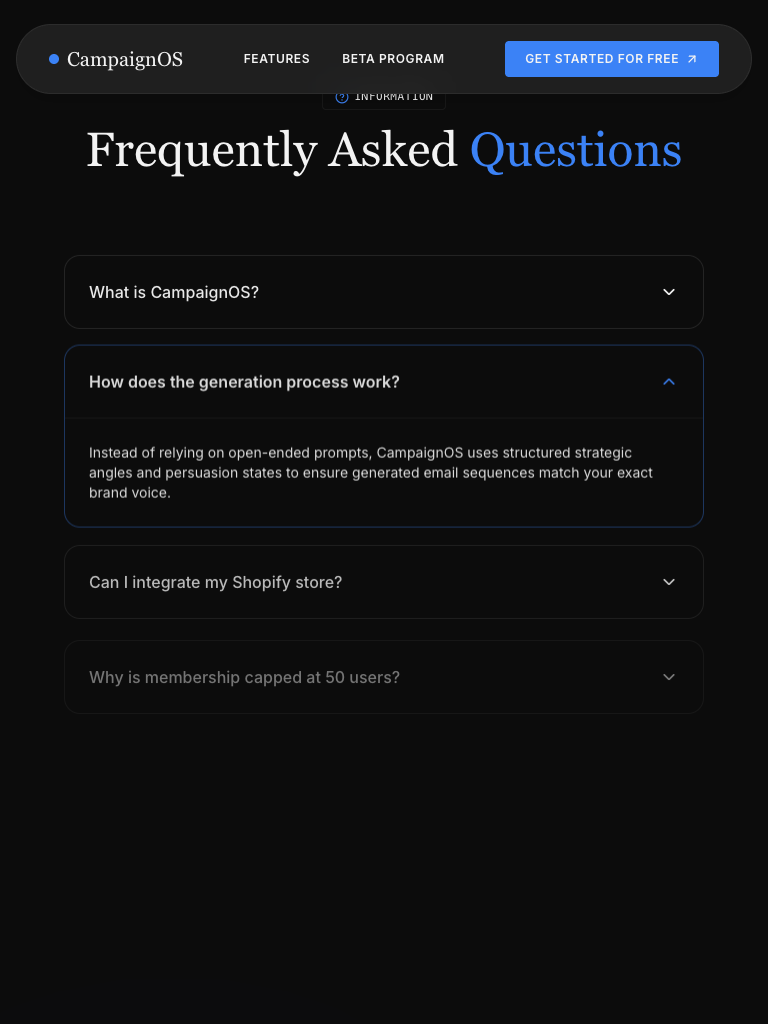
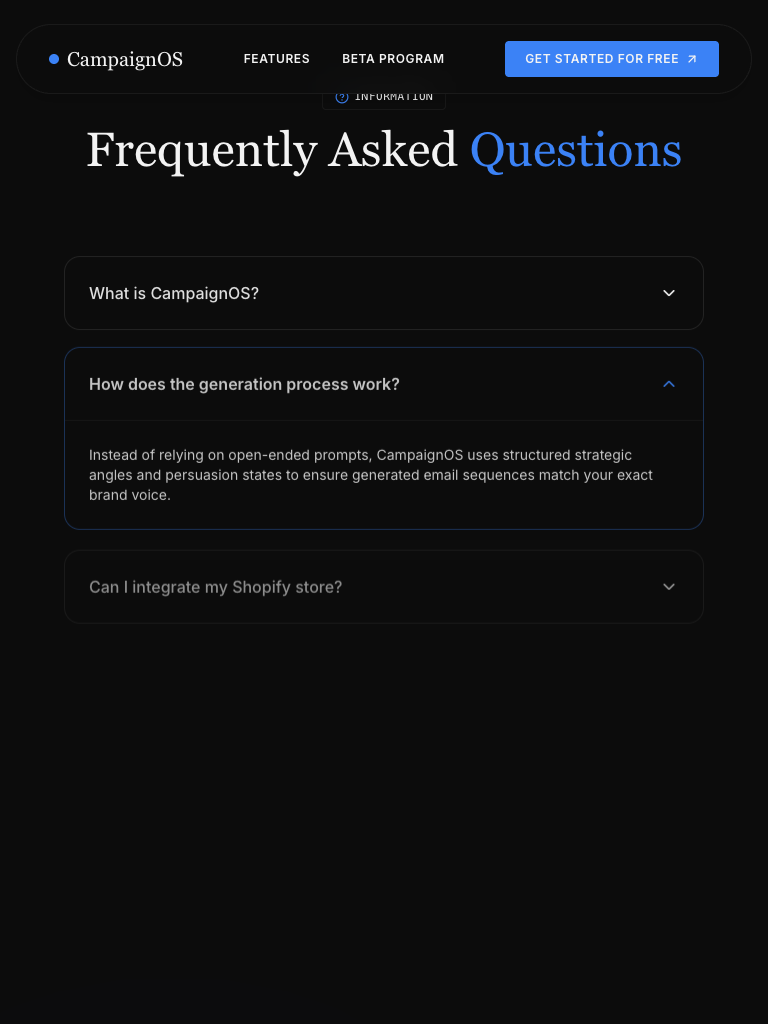
Align card and section backgrounds to sleek all-black theme and fix scroll reveal

diff --git a/src/components/Navbar.tsx b/src/components/Navbar.tsx
@@ -12,7 +12,7 @@ export default function Navbar() {
 
   return (
     <div className="fixed top-6 left-1/2 -translate-x-1/2 z-50 w-[calc(100%-2rem)] max-w-[1000px]">
-      <nav className="w-full bg-[#242424]/80 backdrop-blur-md border border-white/[0.06] rounded-full py-4 px-8 flex items-center justify-between shadow-lg">
+      <nav className="w-full bg-[#0c0c0c]/80 backdrop-blur-md border border-white/[0.06] rounded-full py-4 px-8 flex items-center justify-between shadow-lg">
         {/* Left - Logo */}
         <div className="flex-shrink-0 flex items-center">
           <a href="#" className="font-serif text-xl tracking-normal text-text-primary font-medium flex items-center gap-2">
@@ -50,7 +50,7 @@ export default function Navbar() {
           <button
             id="mobile-menu-btn"
             onClick={() => setIsOpen(!isOpen)}
-            className="inline-flex items-center justify-center p-2 rounded-full text-text-secondary hover:text-text-primary hover:bg-[#242424]/50 focus:outline-none transition-colors duration-200 touch-hitbox btn-active-scale"
+            className="inline-flex items-center justify-center p-2 rounded-full text-text-secondary hover:text-text-primary hover:bg-[#0c0c0c]/50 focus:outline-none transition-colors duration-200 touch-hitbox btn-active-scale"
             aria-expanded={isOpen}
             aria-label="Toggle menu"
           >
@@ -61,7 +61,7 @@ export default function Navbar() {
 
       {/* Mobile Menu Dropdown */}
       <div
-        className={`md:hidden overflow-hidden transition-all duration-200 ease-[var(--ease-out-quart)] origin-top mt-2 border border-white/[0.06] bg-[#242424]/95 backdrop-blur-md rounded-2xl shadow-lg ${
+        className={`md:hidden overflow-hidden transition-all duration-200 ease-[var(--ease-out-quart)] origin-top mt-2 border border-white/[0.06] bg-[#0c0c0c]/95 backdrop-blur-md rounded-2xl shadow-lg ${
           isOpen 
             ? 'max-h-64 opacity-100 scale-100 translate-y-0 py-4 pointer-events-auto' 
             : 'max-h-0 opacity-0 scale-[0.98] -translate-y-2 pointer-events-none py-0'

diff --git a/src/App.tsx b/src/App.tsx
@@ -20,13 +20,21 @@ function App() {
         });
       },
       { 
-        threshold: 0.05,
-        rootMargin: '0px 0px -50px 0px' // Triggers slightly before it enters the viewport fully
+        threshold: 0.01,
+        rootMargin: '0px 0px 80px 0px' // Eagerly trigger slightly before it enters the viewport
       }
     );
 
     const elements = document.querySelectorAll('.reveal-on-scroll');
-    elements.forEach((el) => observer.observe(el));
+    elements.forEach((el) => {
+      // Eagerly reveal if already in or above the viewport on mount
+      const rect = el.getBoundingClientRect();
+      if (rect.top < window.innerHeight) {
+        el.classList.add('is-visible');
+        el.setAttribute('data-visible', 'true');
+      }
+      observer.observe(el);
+    });
 
     return () => observer.disconnect();
   }, []);

diff --git a/tailwind.config.js b/tailwind.config.js
@@ -8,12 +8,12 @@ export default {
     extend: {
       colors: {
         'dark-canvas': '#0c0c0c',
-        'card-bg': '#242424',
+        'card-bg': '#0c0c0c',
         'text-primary': '#f3f3f3',
         'text-secondary': '#a1a1aa',
         'accent-blue': '#3651FF',
         'accent-blue-hover': '#223ad9',
-        'section-alt': '#161616',
+        'section-alt': '#0c0c0c',
         'hairline-border': 'rgba(243, 243, 243, 0.08)',
       },
       fontFamily: {
